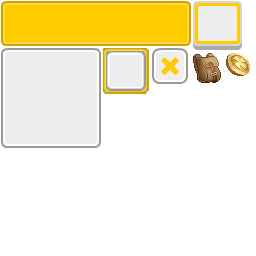
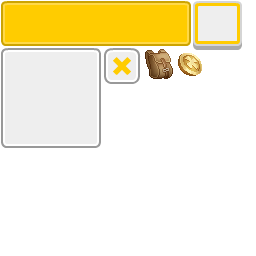
fix resolution

Changed region(s): [[0.375, 0.1875, 1.0, 0.375]]

diff --git a/bin-debug/index.html b/bin-debug/index.html
@@ -5,57 +5,4 @@
             border: 0;
             margin: 0;
             height: 100%;
-        }</style></head><body><div style="margin: auto;width: 100%;height: 100%;" class="egret-player" data-entry-class="Main" data-orientation="auto" data-scale-mode="showAll" data-frame-rate="30" data-content-width="640" data-content-height="1136" data-show-paint-rect="false" data-multi-fingered="2" data-show-fps="false" data-show-log="false" data-show-fps-style="x:0,y:0,size:12,textColor:0xffffff,bgAlpha:0.9"></div><script>var loadScript = function (list, callback) {
-        var loaded = 0;
-        var loadNext = function () {
-            loadSingleScript(list[loaded], function () {
-                loaded++;
-                if (loaded >= list.length) {
-                    callback();
-                }
-                else {
-                    loadNext();
-                }
-            })
-        };
-        loadNext();
-    };
-
-    var loadSingleScript = function (src, callback) {
-        var s = document.createElement('script');
-        s.async = false;
-        s.src = src;
-        s.addEventListener('load', function () {
-            s.parentNode.removeChild(s);
-            s.removeEventListener('load', arguments.callee, false);
-            callback();
-        }, false);
-        document.body.appendChild(s);
-    };
-
-    var xhr = new XMLHttpRequest();
-    xhr.open('GET', './manifest.json?v=' + Math.random(), true);
-    xhr.addEventListener("load", function () {
-        var manifest = JSON.parse(xhr.response);
-        var list = manifest.initial.concat(manifest.game);
-        loadScript(list, function () {
-            /**
-             * {
-             * "renderMode":, //Engine rendering mode, "canvas" or "webgl"
-             * "audioType": 0 //Use the audio type, 0: default, 2: web audio, 3: audio
-             * "antialias": //Whether the anti-aliasing is enabled in WebGL mode, true: on, false: off, defaults to false
-             * "calculateCanvasScaleFactor": //a function return canvas scale factor
-             * }
-             **/
-            egret.runEgret({ renderMode: "webgl", audioType: 0, calculateCanvasScaleFactor:function(context) {
-                var backingStore = context.backingStorePixelRatio ||
-                    context.webkitBackingStorePixelRatio ||
-                    context.mozBackingStorePixelRatio ||
-                    context.msBackingStorePixelRatio ||
-                    context.oBackingStorePixelRatio ||
-                    context.backingStorePixelRatio || 1;
-                return (window.devicePixelRatio || 1) / backingStore;
-            }});
-        });
-    });
-    xhr.send(null);</script></body></html>
+        }</style></head><body><div style="margin: auto;width: 100%;height: 100%;" class="egret-player" data-entry-class="Main" data-orientation="auto" data-scale-mode="showAll" data-frame-rate="60" data-content-width="480" data-content-height="800" data-show-paint-rect="false" data-multi-fingered="2" data-show-fps="true" data-show-log="false" data-show-fps-style="x:0,y:0,size:12,textColor:0xffffff,bgAlpha:0.9"></div><script>egret.runEgret({ renderMode: "webgl", audioType: 0 });</script></body></html>

diff --git a/template/web/index.html b/template/web/index.html
@@ -27,69 +27,16 @@
          data-entry-class="Main"
          data-orientation="auto"
          data-scale-mode="showAll"
-         data-frame-rate="30"
-         data-content-width="640"
-         data-content-height="1136"
+         data-frame-rate="60"
+         data-content-width="480"
+         data-content-height="800"
          data-show-paint-rect="false"
          data-multi-fingered="2"
-         data-show-fps="false" data-show-log="false"
+         data-show-fps="true" data-show-log="false"
          data-show-fps-style="x:0,y:0,size:12,textColor:0xffffff,bgAlpha:0.9">
     </div>
 <script>
-    var loadScript = function (list, callback) {
-        var loaded = 0;
-        var loadNext = function () {
-            loadSingleScript(list[loaded], function () {
-                loaded++;
-                if (loaded >= list.length) {
-                    callback();
-                }
-                else {
-                    loadNext();
-                }
-            })
-        };
-        loadNext();
-    };
-
-    var loadSingleScript = function (src, callback) {
-        var s = document.createElement('script');
-        s.async = false;
-        s.src = src;
-        s.addEventListener('load', function () {
-            s.parentNode.removeChild(s);
-            s.removeEventListener('load', arguments.callee, false);
-            callback();
-        }, false);
-        document.body.appendChild(s);
-    };
-
-    var xhr = new XMLHttpRequest();
-    xhr.open('GET', './manifest.json?v=' + Math.random(), true);
-    xhr.addEventListener("load", function () {
-        var manifest = JSON.parse(xhr.response);
-        var list = manifest.initial.concat(manifest.game);
-        loadScript(list, function () {
-            /**
-             * {
-             * "renderMode":, //Engine rendering mode, "canvas" or "webgl"
-             * "audioType": 0 //Use the audio type, 0: default, 2: web audio, 3: audio
-             * "antialias": //Whether the anti-aliasing is enabled in WebGL mode, true: on, false: off, defaults to false
-             * "calculateCanvasScaleFactor": //a function return canvas scale factor
-             * }
-             **/
-            egret.runEgret({ renderMode: "webgl", audioType: 0, calculateCanvasScaleFactor:function(context) {
-                var backingStore = context.backingStorePixelRatio ||
-                    context.webkitBackingStorePixelRatio ||
-                    context.mozBackingStorePixelRatio ||
-                    context.msBackingStorePixelRatio ||
-                    context.oBackingStorePixelRatio ||
-                    context.backingStorePixelRatio || 1;
-                return (window.devicePixelRatio || 1) / backingStore;
-            }});
-        });
-    });
-    xhr.send(null);
+    egret.runEgret({ renderMode: "webgl", audioType: 0 });
 </script>
 </body>
 

diff --git a/bin-debug/js/main.js b/bin-debug/js/main.js
@@ -404,9 +404,9 @@ var PangGlobal = /** @class */ (function () {
     PangGlobal.defaultResouceJson = "resource/default.res.json";
     PangGlobal.grpNames = ["ingame", "ui"]; // 로드할 그룹 이름들 다 넣어요
     PangGlobal.pkgNames = ["stage", "sprite", "UI"]; // 리소스 패키지 이름들 다 넣어요
-    PangGlobal.interpol = 8; // 캐릭터 보간
-    PangGlobal.gWidth = 640;
-    PangGlobal.gHeight = 480;
+    PangGlobal.interpol = 16; // 캐릭터 보간
+    PangGlobal.gWidth = 750;
+    PangGlobal.gHeight = 1334;
     return PangGlobal;
 }());
 window["PangGlobal"] = PangGlobal;
@@ -665,17 +665,25 @@ __reflect(UI.prototype,"UI",[]);
 var PopupManager = /** @class */ (function () {
     function PopupManager() {
     }
+    Object.defineProperty(PopupManager, "ME", {
+        get: function () {
+            if (!this.instance)
+                this.instance = new PopupManager();
+            return this.instance;
+        },
+        enumerable: false,
+        configurable: true
+    });
     PopupManager.show = function (parent, child) {
-        var pm = new PopupManager();
-        pm.show(parent, child);
+        PopupManager.ME.show(parent, child);
     };
     PopupManager.prototype.show = function (parent, child) {
         try {
             if (parent && child) {
-                PopupManager.dim = new fairygui.GGraph();
-                PopupManager.dim.setSize(PangGlobal.gWidth, PangGlobal.gHeight);
-                PopupManager.dim.drawRect(0, 0x000000, 0.5, 0x000000, 0.5);
-                parent.addChild(PopupManager.dim);
+                PopupManager.ME.dim = new fairygui.GGraph();
+                PopupManager.ME.dim.setSize(PangGlobal.gWidth, PangGlobal.gHeight);
+                PopupManager.ME.dim.drawRect(0, 0x000000, 0.5, 0x000000, 0.5);
+                parent.addChild(PopupManager.ME.dim);
                 parent.addChild(child);
                 child.visible = true;
             }
@@ -684,14 +692,13 @@ var PopupManager = /** @class */ (function () {
     };
     PopupManager.hide = function (child, isDestroy) {
         if (isDestroy === void 0) { isDestroy = false; }
-        var pm = new PopupManager();
-        pm.hide(child, isDestroy);
+        PopupManager.ME.hide(child, isDestroy);
     };
     PopupManager.prototype.hide = function (child, isDestroy) {
         if (isDestroy === void 0) { isDestroy = false; }
         try {
-            if (PopupManager.dim && PopupManager.dim.parent)
-                PopupManager.dim.removeFromParent();
+            if (PopupManager.ME.dim && PopupManager.ME.dim.parent)
+                PopupManager.ME.dim.removeFromParent();
             if (child && child.parent)
                 isDestroy ? child.removeFromParent() : child.visible = false;
         }

diff --git a/src/UI.ts b/src/UI.ts
@@ -32,19 +32,24 @@ class UI extends egret.DisplayObjectContainer {
 }
 
 class PopupManager {
-    public static dim: fairygui.GGraph;
+    private static instance: PopupManager;
+    private dim: fairygui.GGraph;
+
+    public static get ME() {
+        if (!this.instance) this.instance = new PopupManager();
+        return this.instance;
+    }
 
     public static show(parent: fairygui.GComponent, child: fairygui.GComponent) {
-        let pm = new PopupManager();
-        pm.show(parent, child);
+        PopupManager.ME.show(parent, child);
     }
-    public show(parent: fairygui.GComponent, child: fairygui.GComponent) {
+    private show(parent: fairygui.GComponent, child: fairygui.GComponent) {
         try {
             if (parent && child) {
-                PopupManager.dim = new fairygui.GGraph();
-                PopupManager.dim.setSize(PangGlobal.gWidth, PangGlobal.gHeight);
-                PopupManager.dim.drawRect(0, 0x000000, 0.5, 0x000000, 0.5);
-                parent.addChild(PopupManager.dim);
+                PopupManager.ME.dim = new fairygui.GGraph();
+                PopupManager.ME.dim.setSize(PangGlobal.gWidth, PangGlobal.gHeight);
+                PopupManager.ME.dim.drawRect(0, 0x000000, 0.5, 0x000000, 0.5);
+                parent.addChild(PopupManager.ME.dim);
                 parent.addChild(child);
                 child.visible = true;
             }
@@ -52,12 +57,11 @@ class PopupManager {
     }
 
     public static hide(child: fairygui.GComponent, isDestroy: boolean = false) {
-        let pm = new PopupManager();
-        pm.hide(child, isDestroy);
+        PopupManager.ME.hide(child, isDestroy);
     }
-    public hide(child: fairygui.GComponent, isDestroy: boolean = false) {
+    private hide(child: fairygui.GComponent, isDestroy: boolean = false) {
         try {
-            if (PopupManager.dim && PopupManager.dim.parent) PopupManager.dim.removeFromParent();
+            if (PopupManager.ME.dim && PopupManager.ME.dim.parent) PopupManager.ME.dim.removeFromParent();
             if (child && child.parent) isDestroy ? child.removeFromParent() : child.visible = false;
         } catch (e) { }
     }

diff --git a/src/PangGlobal.ts b/src/PangGlobal.ts
@@ -4,9 +4,9 @@ class PangGlobal {
     public static grpNames: Array<string> = ["ingame", "ui"]; // 로드할 그룹 이름들 다 넣어요
     public static pkgNames: Array<string> = ["stage", "sprite", "UI"]; // 리소스 패키지 이름들 다 넣어요
 
-    public static interpol: number = 8; // 캐릭터 보간
-    public static gWidth: number = 640;
-    public static gHeight: number = 480;
+    public static interpol: number = 16; // 캐릭터 보간
+    public static gWidth: number = 750;
+    public static gHeight: number = 1334;
 
     public constructor() {
 

diff --git a/index.html b/index.html
@@ -27,11 +27,11 @@
          data-entry-class="Main"
          data-orientation="auto"
          data-scale-mode="showAll"
-         data-frame-rate="30"
-         data-content-width="640"
-         data-content-height="480"
+         data-frame-rate="60"
+         data-content-width="750"
+         data-content-height="1335"
          data-multi-fingered="2"
-         data-show-fps="false" data-show-log="false"
+         data-show-fps="true" data-show-log="false"
          data-show-fps-style="x:0,y:0,size:12,textColor:0xffffff,bgAlpha:0.9">
     </div>
 <script>
